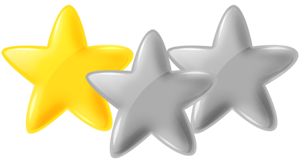
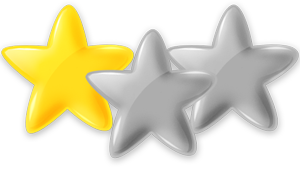
add star shadows + delete file + fix sound bug

diff --git a/proj.qt/main.cpp b/proj.qt/main.cpp
@@ -63,7 +63,7 @@ int CALLBACK WinMain(
     //assert(false);
 #endif
     bool portrait_mode = true;
-    Mode open_in_mode = IPhone3GS;
+    Mode open_in_mode = Galaxy_Ace2;
 
 
     int swidth = 0;
@@ -75,7 +75,7 @@ int CALLBACK WinMain(
 
     const float max_width = swidth;
     const float max_height = sheight;
-    bool zoom = true;
+    bool zoom = false;
 
     float width = 0;
     float height = 0;

diff --git a/Classes/Logic/JoinyLevel.cpp b/Classes/Logic/JoinyLevel.cpp
@@ -38,9 +38,9 @@ const StarsNumber JoinyLevel::getStarsNumber(const Score score) const
     else
     {
         stars = 1;
-        if(score > _puzzle._info.getGold())
+        if(score >= _puzzle._info.getGold())
             stars = 3;
-        else if(score > _puzzle._info.getSilver())
+        else if(score >= _puzzle._info.getSilver())
             stars = 2;
 
     }

diff --git a/Classes/Core/MusicSettings.h b/Classes/Core/MusicSettings.h
@@ -71,7 +71,7 @@ private:
     void do_turnOnSoundEffect(void)
     {
         //TODO: may be it needs changes
-        CocosDenshion::SimpleAudioEngine::sharedEngine()->resumeAllEffects();
+        //CocosDenshion::SimpleAudioEngine::sharedEngine()->resumeAllEffects();
         _sound_effect_on=true;
     }
     void do_turnOffSoundEffect(void)
